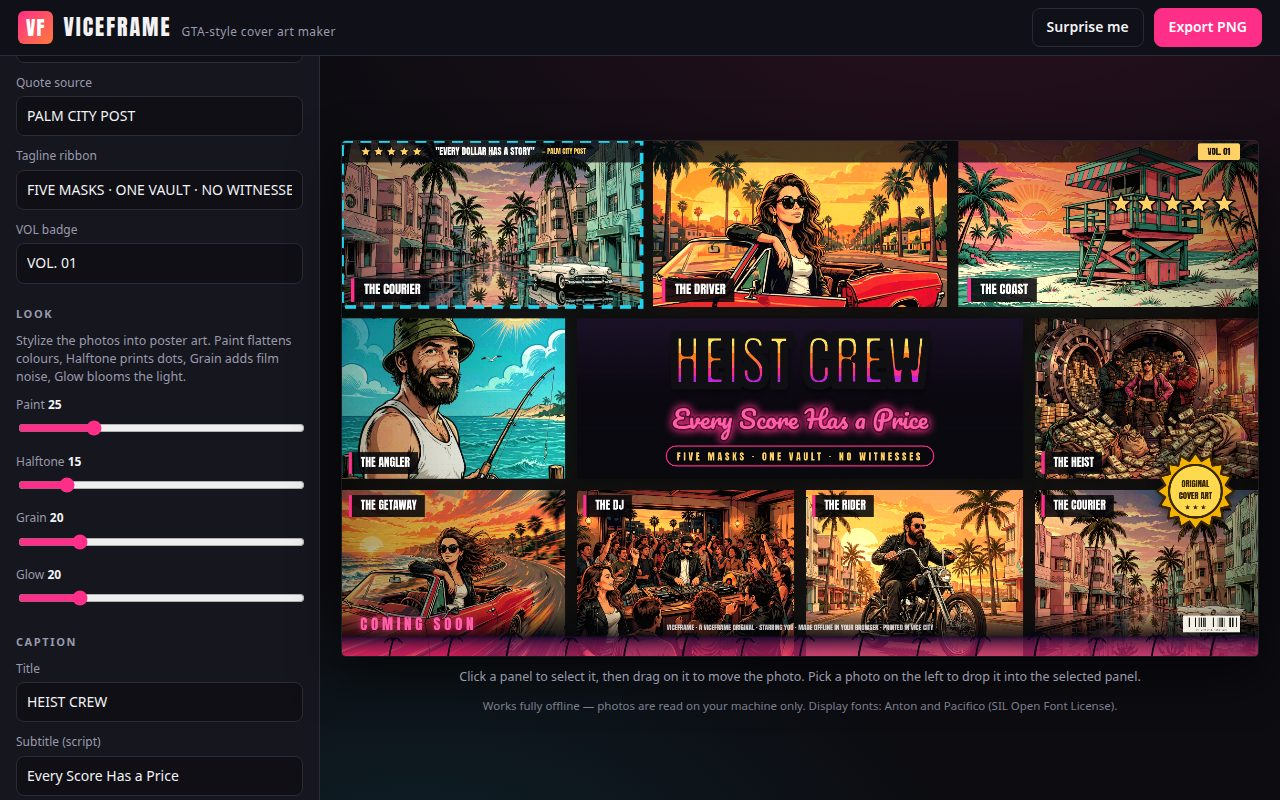
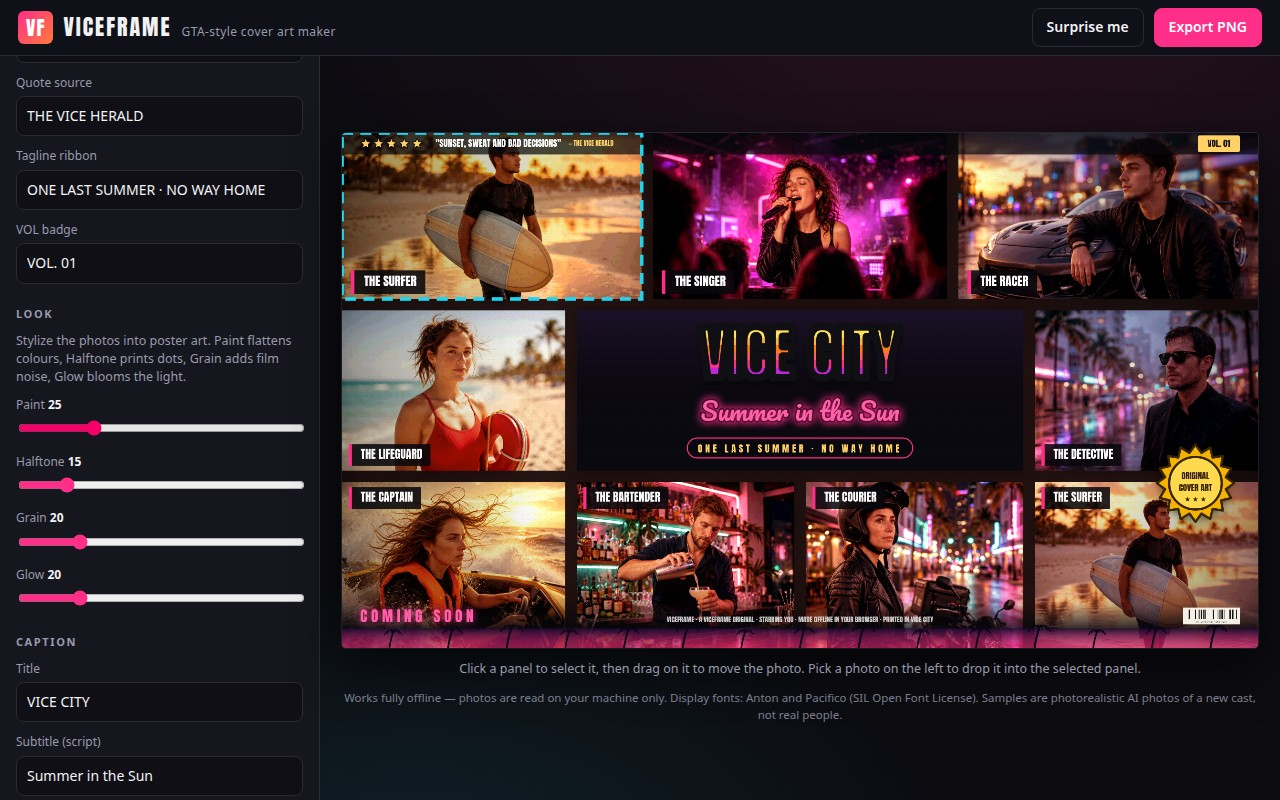
Round 4: photoreal sample set — new eight-person cast, Night Shift preset

diff --git a/app/src/editor.js b/app/src/editor.js
@@ -5,17 +5,19 @@
 import { LAYOUTS, GRADES, renderCover, layoutPanelRects, pointInPanel, tracePanelPath } from './render.js';
 
 const SAMPLE_PHOTOS = [
-  { name: 'Neon Street', src: 'samples/neon.jpg' },
-  { name: 'Boulevard', src: 'samples/boulevard.jpg' },
-  { name: 'Beach', src: 'samples/beach.jpg' },
-  { name: 'Pier', src: 'samples/pier.jpg' },
-  { name: 'Heist Crew', src: 'samples/heist.jpg' },
-  { name: 'Getaway', src: 'samples/chase.jpg' },
-  { name: 'Nightclub', src: 'samples/club.jpg' },
-  { name: 'Biker', src: 'samples/biker.jpg' },
+  { name: 'Surfer', src: 'samples/surfer.jpg' },
+  { name: 'Singer', src: 'samples/singer.jpg' },
+  { name: 'Racer', src: 'samples/racer.jpg' },
+  { name: 'Lifeguard', src: 'samples/lifeguard.jpg' },
+  { name: 'Detective', src: 'samples/detective.jpg' },
+  { name: 'Speedboat', src: 'samples/speedboat.jpg' },
+  { name: 'Bartender', src: 'samples/bartender.jpg' },
+  { name: 'Courier', src: 'samples/courier.jpg' },
 ];
 
-// The samples are an illustrated character set: cel-shaded poster art, no photographs.
+// The samples are a photorealistic photo set: eight new AI-generated
+// characters, a different cast from the illustrated rounds — no photographs
+// of real people.
 
 const EXPORT_SIZES = {
   '1080x1080': { w: 1080, h: 1080, label: '1080 × 1080' },
@@ -30,7 +32,7 @@ const SURPRISE_TITLES = [
   ['PALM HEAT', 'Where the Sun Never Sets'],
   ['SUNSET RUN', 'Top Down, Full Send'],
   ['VICE LIFE', 'Every Night Is a Poster'],
-  ['HEIST CREW', 'Every Score Has a Price'],
+  ['NIGHT SHIFT', 'The City Never Sleeps'],
   ['GETAWAY', 'Top Down, Full Send'],
   ['WANTED', 'Five Stars and Counting'],
   ['OUTLAW RUN', 'Ride or Die in Vice City'],
@@ -40,7 +42,7 @@ const SURPRISE_TITLES = [
  *  and wanted stars in one tap. All quote and tagline wording is original. */
 const PRESETS = [
   { id: 'vice-city', label: 'Vice City', title: 'VICE CITY', subtitle: 'Summer in the Sun', grade: 'sunset', wanted: false, tagline: 'ONE LAST SUMMER · NO WAY HOME', quote: 'SUNSET, SWEAT AND BAD DECISIONS', source: 'THE VICE HERALD' },
-  { id: 'heist-crew', label: 'Heist Crew', title: 'HEIST CREW', subtitle: 'Every Score Has a Price', grade: 'heist', wanted: true, tagline: 'FIVE MASKS · ONE VAULT · NO WITNESSES', quote: 'EVERY DOLLAR HAS A STORY', source: 'PALM CITY POST' },
+  { id: 'night-shift', label: 'Night Shift', title: 'NIGHT SHIFT', subtitle: 'The City Never Sleeps', grade: 'neon', wanted: true, tagline: 'NEON · RAIN · NO WITNESSES', quote: 'EVERY STREET HAS A STORY', source: 'PALM CITY POST' },
   { id: 'getaway', label: 'Getaway', title: 'GETAWAY', subtitle: 'Top Down, Full Send', grade: 'ocean', wanted: true, tagline: 'TOP DOWN · FULL SEND · NO BRAKES', quote: 'FULL THROTTLE FROM THE FIRST FRAME', source: 'SUNSET TRIBUNE' },
   { id: 'neon-nights', label: 'Neon Nights', title: 'NEON NIGHTS', subtitle: 'Ocean Drive After Dark', grade: 'neon', wanted: false, tagline: 'THE NIGHT BELONGS TO US', quote: 'THE CITY GLOWS AFTER DARK', source: 'THE NEON REVIEW' },
   { id: 'wanted', label: 'Wanted', title: 'WANTED', subtitle: 'Five Stars and Counting', grade: 'midnight', wanted: true, tagline: 'RUN FAST · SHINE BRIGHT · NEVER CAUGHT', quote: 'FIVE STARS AND STILL RUNNING', source: 'VICE CITY CHRONICLE' },
@@ -49,14 +51,14 @@ const PRESETS = [
 
 /** Default caption tag per built-in sample, in SAMPLE_PHOTOS order. */
 const SAMPLE_CAPTIONS = [
+  { mode: 'role', text: 'THE SURFER', show: true },
+  { mode: 'role', text: 'THE SINGER', show: true },
+  { mode: 'role', text: 'THE RACER', show: true },
+  { mode: 'role', text: 'THE LIFEGUARD', show: true },
+  { mode: 'role', text: 'THE DETECTIVE', show: true },
+  { mode: 'role', text: 'THE CAPTAIN', show: true },
+  { mode: 'role', text: 'THE BARTENDER', show: true },
   { mode: 'role', text: 'THE COURIER', show: true },
-  { mode: 'role', text: 'THE DRIVER', show: true },
-  { mode: 'role', text: 'THE COAST', show: true },
-  { mode: 'role', text: 'THE ANGLER', show: true },
-  { mode: 'role', text: 'THE HEIST', show: true },
-  { mode: 'role', text: 'THE GETAWAY', show: true },
-  { mode: 'role', text: 'THE DJ', show: true },
-  { mode: 'role', text: 'THE RIDER', show: true },
 ];
 
 /** The caption a library photo carries when it lands in a panel. */
@@ -586,10 +588,10 @@ async function initEditor() {
       console.warn('Sample photo failed to load:', sample.src);
     }
   }
-  // Default cover: neon street hero, boulevard / beach / pier in the strip.
+  // Default cover: surfer hero, singer / racer / lifeguard in the strip.
   // The strip pans frame the faces, which sit near the top of those photos.
-  // Panels 5–9 (heist crew, getaway, nightclub, biker, neon again) wait for
-  // the six-panel comic grid and the nine-panel Cover layout.
+  // Panels 5–9 (detective, speedboat, bartender, courier, surfer again) wait
+  // for the six-panel comic grid and the nine-panel Cover layout.
   const order = [0, 1, 2, 3, 4, 5, 6, 7, 0];
   const defaultPans = [
     { dx: 0, dy: 0 },

diff --git a/app/index.html b/app/index.html
@@ -8,7 +8,7 @@
 <link rel="stylesheet" href="style.css">
 </head>
 <body>
-<!-- Sample photos are illustrated characters (cel-shaded poster art), not photographs. -->
+<!-- Sample photos are a photorealistic AI set: eight new characters, not photographs of real people. -->
 <header class="topbar">
   <div class="brand">
     <span class="brand-mark">VF</span>
@@ -104,7 +104,7 @@
       <p class="hint">One tap sets the title, script subtitle, tagline, quote, grade and wanted stars.</p>
       <div class="preset-grid" id="presetBtns">
         <button type="button" data-preset="vice-city" class="preset-btn">Vice City</button>
-        <button type="button" data-preset="heist-crew" class="preset-btn">Heist Crew</button>
+        <button type="button" data-preset="night-shift" class="preset-btn">Night Shift</button>
         <button type="button" data-preset="getaway" class="preset-btn">Getaway</button>
         <button type="button" data-preset="neon-nights" class="preset-btn">Neon Nights</button>
         <button type="button" data-preset="wanted" class="preset-btn">Wanted</button>
@@ -212,7 +212,7 @@
 
     <section class="group">
       <h2>Selected panel</h2>
-      <p class="hint" id="panelLabel">Panel 1 — Boulevard</p>
+      <p class="hint" id="panelLabel">Panel 1 — Surfer</p>
       <label class="field">
         <span>Zoom</span>
         <input id="zoomInput" type="range" min="100" max="250" value="100">
@@ -231,20 +231,20 @@
       </div>
       <label class="field">
         <span>Tag text</span>
-        <input id="captionText" type="text" value="" maxlength="30" autocomplete="off" placeholder="THE DRIVER or OCEAN DRIVE · 6:42 PM">
+        <input id="captionText" type="text" value="" maxlength="30" autocomplete="off" placeholder="THE SURFER or OCEAN DRIVE · 6:42 PM">
       </label>
       <label class="field">
         <span>Role preset</span>
         <select id="captionPreset" class="select">
           <option value="custom">Custom text…</option>
-          <option value="THE DRIVER">THE DRIVER</option>
-          <option value="THE BOSS">THE BOSS</option>
-          <option value="THE HEIST">THE HEIST</option>
-          <option value="THE RIDER">THE RIDER</option>
+          <option value="THE SURFER">THE SURFER</option>
+          <option value="THE SINGER">THE SINGER</option>
+          <option value="THE RACER">THE RACER</option>
+          <option value="THE LIFEGUARD">THE LIFEGUARD</option>
+          <option value="THE DETECTIVE">THE DETECTIVE</option>
+          <option value="THE CAPTAIN">THE CAPTAIN</option>
+          <option value="THE BARTENDER">THE BARTENDER</option>
           <option value="THE COURIER">THE COURIER</option>
-          <option value="THE ANGLER">THE ANGLER</option>
-          <option value="THE GETAWAY">THE GETAWAY</option>
-          <option value="THE DJ">THE DJ</option>
           <option value="THE STAR">THE STAR</option>
         </select>
       </label>
@@ -257,7 +257,7 @@
       <canvas id="previewCanvas" width="1920" height="1080"></canvas>
     </div>
     <p class="stage-hint">Click a panel to select it, then drag on it to move the photo. Pick a photo on the left to drop it into the selected panel.</p>
-    <p class="stage-note">Works fully offline — photos are read on your machine only. Display fonts: Anton and Pacifico (SIL Open Font License).</p>
+    <p class="stage-note">Works fully offline — photos are read on your machine only. Display fonts: Anton and Pacifico (SIL Open Font License). Samples are photorealistic AI photos of a new cast, not real people.</p>
   </section>
 </main>
 

diff --git a/main.ts b/main.ts
@@ -12,16 +12,17 @@
 // barcode, palm strip), per-panel caption tags, one-click title presets,
 // face-aware cropping, a five-star wanted decoration, drag-to-pan photo
 // cropping per panel, and one-click PNG export at 1080x1080, 1080x1350,
-// 1080x1920 and 1920x1080. The eight sample photos (app/samples/neon.jpg,
-// boulevard.jpg, pier.jpg, beach.jpg, heist.jpg, chase.jpg, club.jpg,
-// biker.jpg) are illustrated character art made with an image model for this
-// entry — cel-shaded GTA-poster style, no photographs of real people.
-// Touch-up: the wanted stars are drawn small (about half their first size),
-// and the heist sample now shows the crew with US dollar cash — stacks of
-// bills, money bags and duffel bags full of cash in front of the vault.
+// 1080x1920 and 1920x1080. The eight sample photos (app/samples/surfer.jpg,
+// singer.jpg, racer.jpg, lifeguard.jpg, detective.jpg, speedboat.jpg,
+// bartender.jpg, courier.jpg) are photorealistic AI photos made with an
+// image model for this entry — a new eight-person cast, different from the
+// illustrated rounds, and no photographs of real people.
+// Touch-up: the wanted stars are drawn small (about half their first size).
 // Round 3: the Cover layout, chrome title, script subtitle, poster
 // furniture, caption tags and look sliders above; the script font is
 // Pacifico under the SIL Open Font License (see app/fonts/OFL-Pacifico.txt).
+// Round 4: the photoreal sample set above replaces the illustrated cast;
+// the Night Shift preset replaces Heist Crew to match the new characters.
 //
 // Serve it locally with `node serve.ts`, then open http://localhost:8080.
 // Outside the grader's container, MAKEFUN_OUTPUT_DIR stands in for /output:

diff --git a/app/src/render.js b/app/src/render.js
@@ -6,8 +6,8 @@
 // barcode, palm strip), per-panel caption tags and the five-star wanted
 // decoration, all drawn on a 2D canvas. Pure functions of the editor state —
 // the same code draws the live preview and the exported PNG, so what you see
-// is exactly what you share. The built-in samples are illustrated characters
-// in the same cel-shaded poster style, never photographs.
+// is exactly what you share. The built-in samples are photorealistic AI
+// photos of a new eight-person cast, never photographs of real people.
 
 /** Panel layouts: each one maps the cover size to its panel rectangles. */
 export const LAYOUTS = {

diff --git a/app/style.css b/app/style.css
@@ -1,4 +1,4 @@
-/* VICEFRAME editor styles. Eight illustrated character samples (cel-shaded poster art). */
+/* VICEFRAME editor styles. Eight photorealistic AI sample photos (new cast). */
 @font-face {
   font-family: "Anton";
   src: url("fonts/Anton-Regular.ttf") format("truetype");
@@ -158,6 +158,8 @@ body {
   width: 100%;
   height: 100%;
   object-fit: cover;
+  /* Faces sit near the top of the photoreal samples; bias the crop upward. */
+  object-position: center 25%;
   display: block;
 }
 

diff --git a/README.md b/README.md
@@ -16,17 +16,19 @@ art — entirely offline, in your browser. No uploads, no account, no build step
   cover structure). Fill several panels with one photo or a different photo
   per panel.
 - **Any photo** — drop in your own photos (read on your machine only) or use
-  the eight built-in Vice City samples: neon street, boulevard, beach, pier,
-  heist crew, getaway chase, nightclub and biker. Click a panel to select it,
-  drag to pan the photo, zoom and rotate with sliders. When the browser
-  supports face detection, auto-fill centres the subject's face in its panel.
-  Every panel carries an editable caption tag — a role tag (THE DRIVER,
-  THE HEIST…) or a place/time caption (OCEAN DRIVE · 6:42 PM).
+  the eight built-in photorealistic Vice City samples: surfer, singer, racer,
+  lifeguard, detective, speedboat captain, bartender and courier — a new cast
+  made with an image model, not photographs of real people. Click a panel to
+  select it, drag to pan the photo, zoom and rotate with sliders. When the
+  browser supports face detection, auto-fill centres the subject's face in
+  its panel. Every panel carries an editable caption tag — a role tag
+  (THE SURFER, THE DETECTIVE…) or a place/time caption
+  (OCEAN DRIVE · 6:42 PM).
 - **Bold lettering** — a chrome 3D title (striped sunset-gradient letters
   with a dark outline and extruded shadow, or a flat solid style), a neon
   pink script subtitle (Pacifico, SIL Open Font License), and a tagline
   ribbon. Title, subtitle, tagline, size, position and colour are all
-  editable. One-click presets (Vice City, Heist Crew, Getaway, Neon Nights,
+  editable. One-click presets (Vice City, Night Shift, Getaway, Neon Nights,
   Wanted, Outlaw Run) set the caption, tagline, quote, grade and five-star
   wanted decoration together.
 - **Poster furniture** — the movie-poster dressing: a critic quote bar with
@@ -59,6 +61,8 @@ on make.fun. Original work: no Rockstar logo, wordmark, artwork, character or
 font is used. The display fonts are Anton and Pacifico under the SIL Open
 Font License 1.1 (see `app/fonts/OFL.txt` and `app/fonts/OFL-Pacifico.txt`).
 
-<!-- Sample photos: an illustrated character set (cel-shaded GTA-poster style) — no photographs.
-     Touch-up: wanted stars resized small; heist sample now shows the crew with US dollar cash.
-     Round 3: Cover layout, chrome title, script subtitle, poster furniture, caption tags, Look sliders. -->
+<!-- Sample photos: a photorealistic AI set — eight new characters (surfer, singer, racer,
+     lifeguard, detective, speedboat captain, bartender, courier), not photographs of real people.
+     Touch-up: wanted stars resized small.
+     Round 3: Cover layout, chrome title, script subtitle, poster furniture, caption tags, Look sliders.
+     Round 4: photoreal sample set replaces the illustrated cast; Night Shift preset replaces Heist Crew. -->
